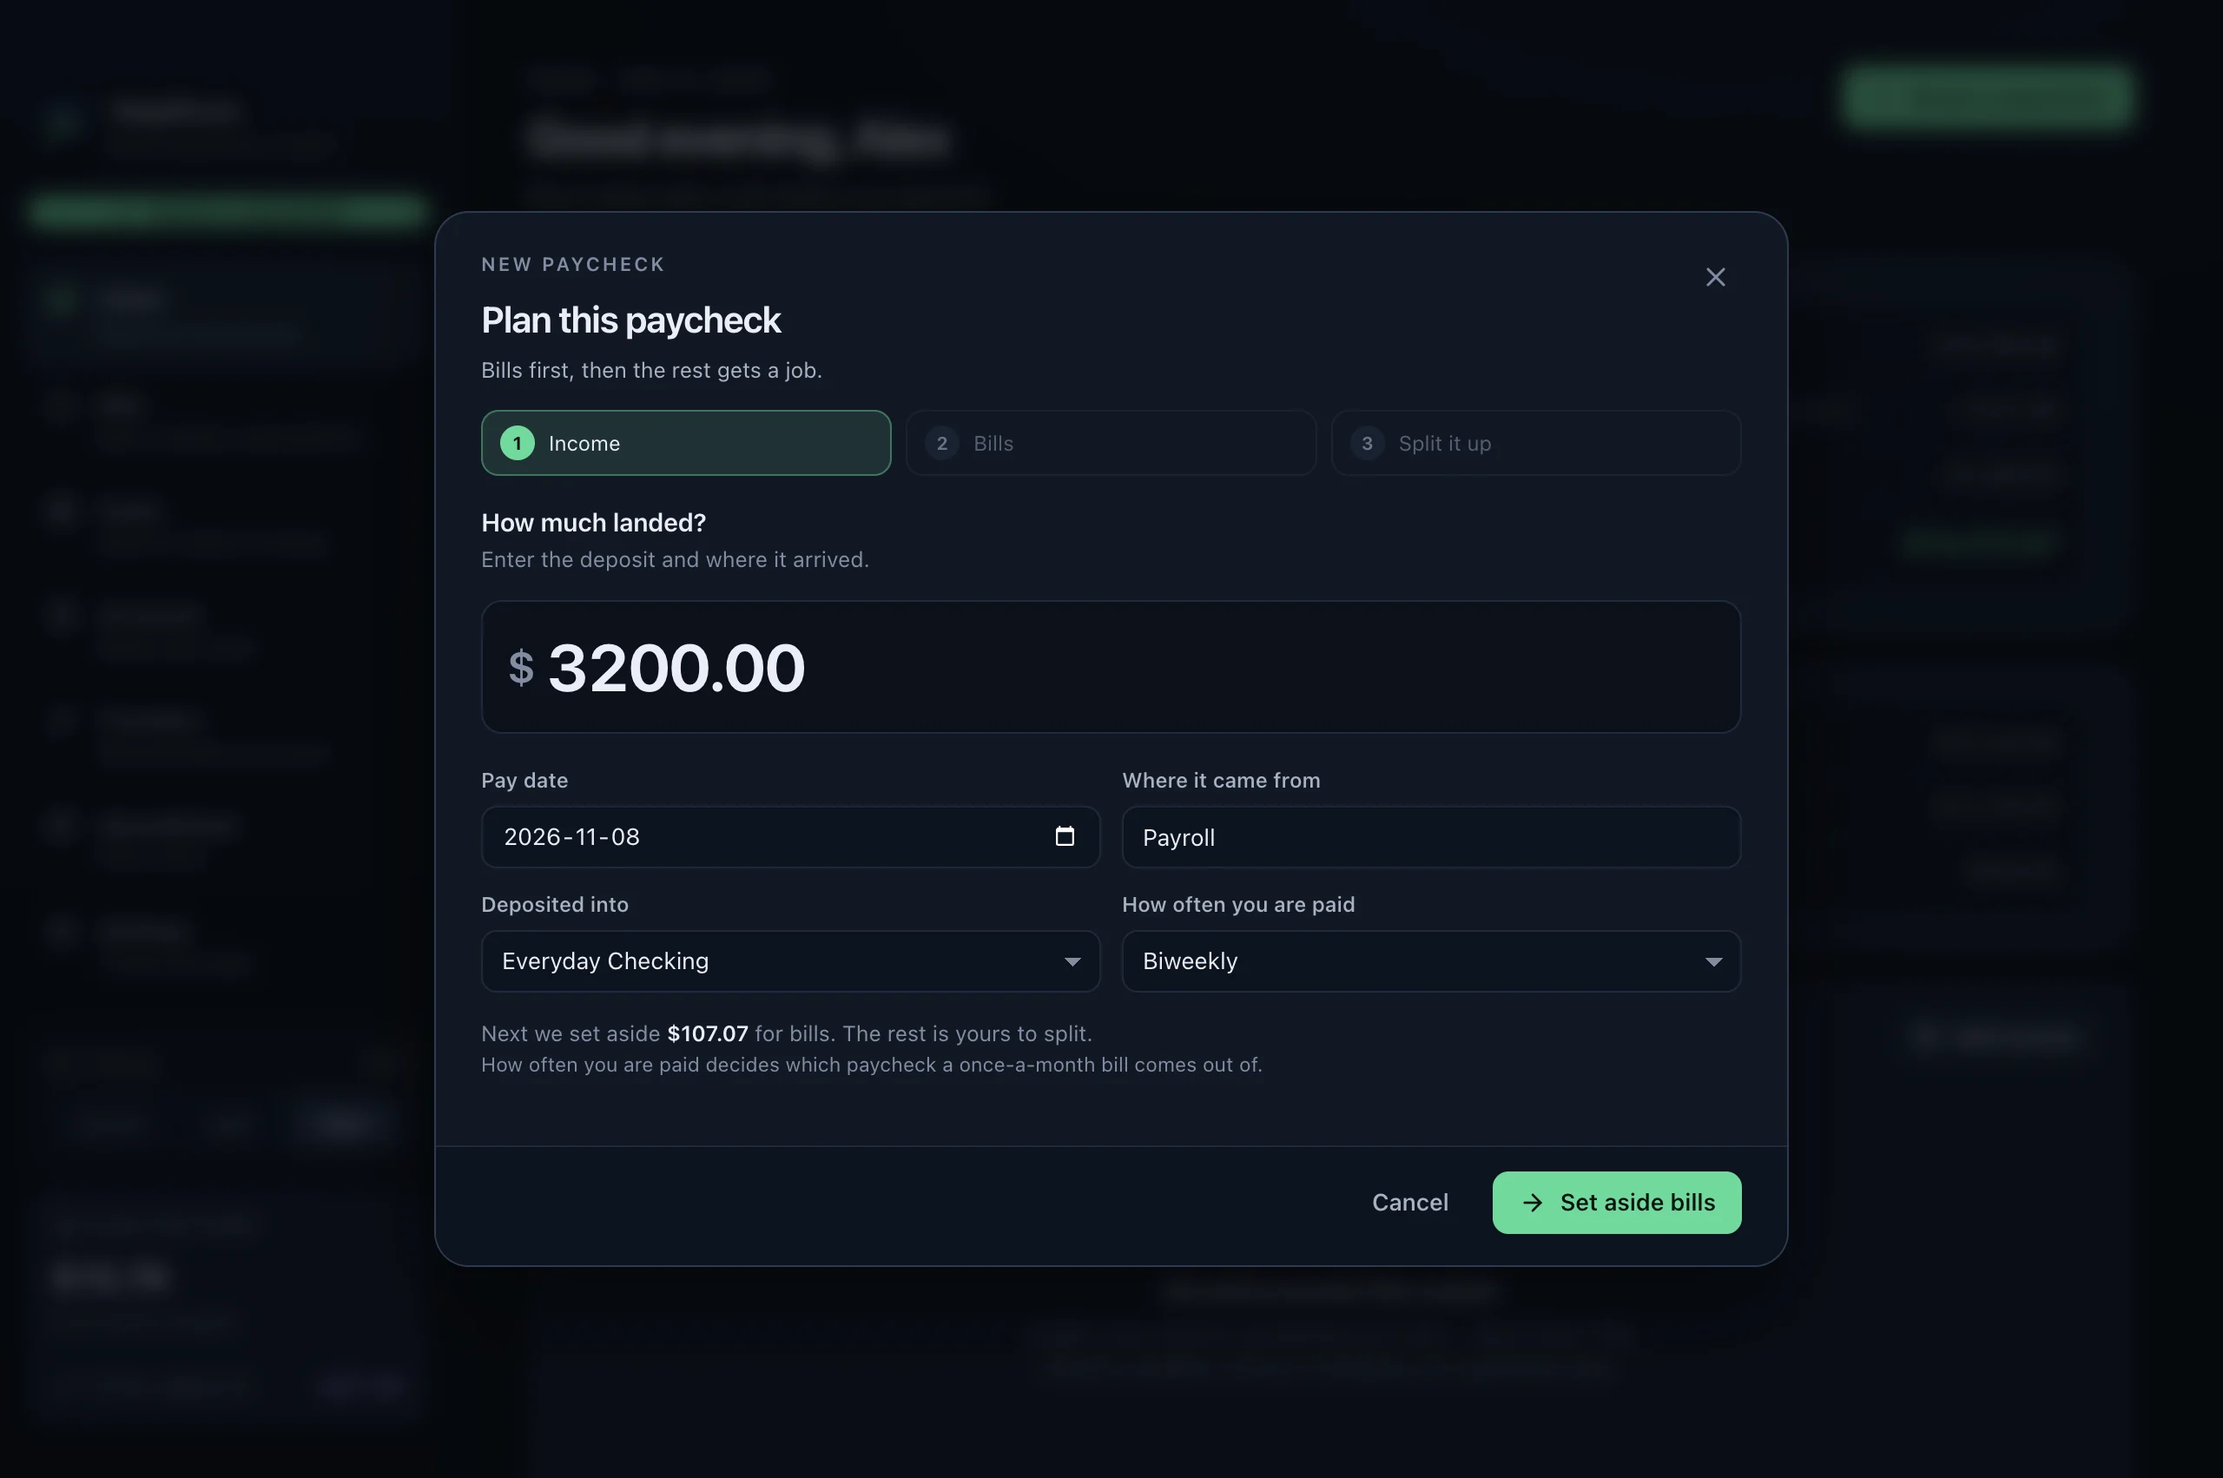
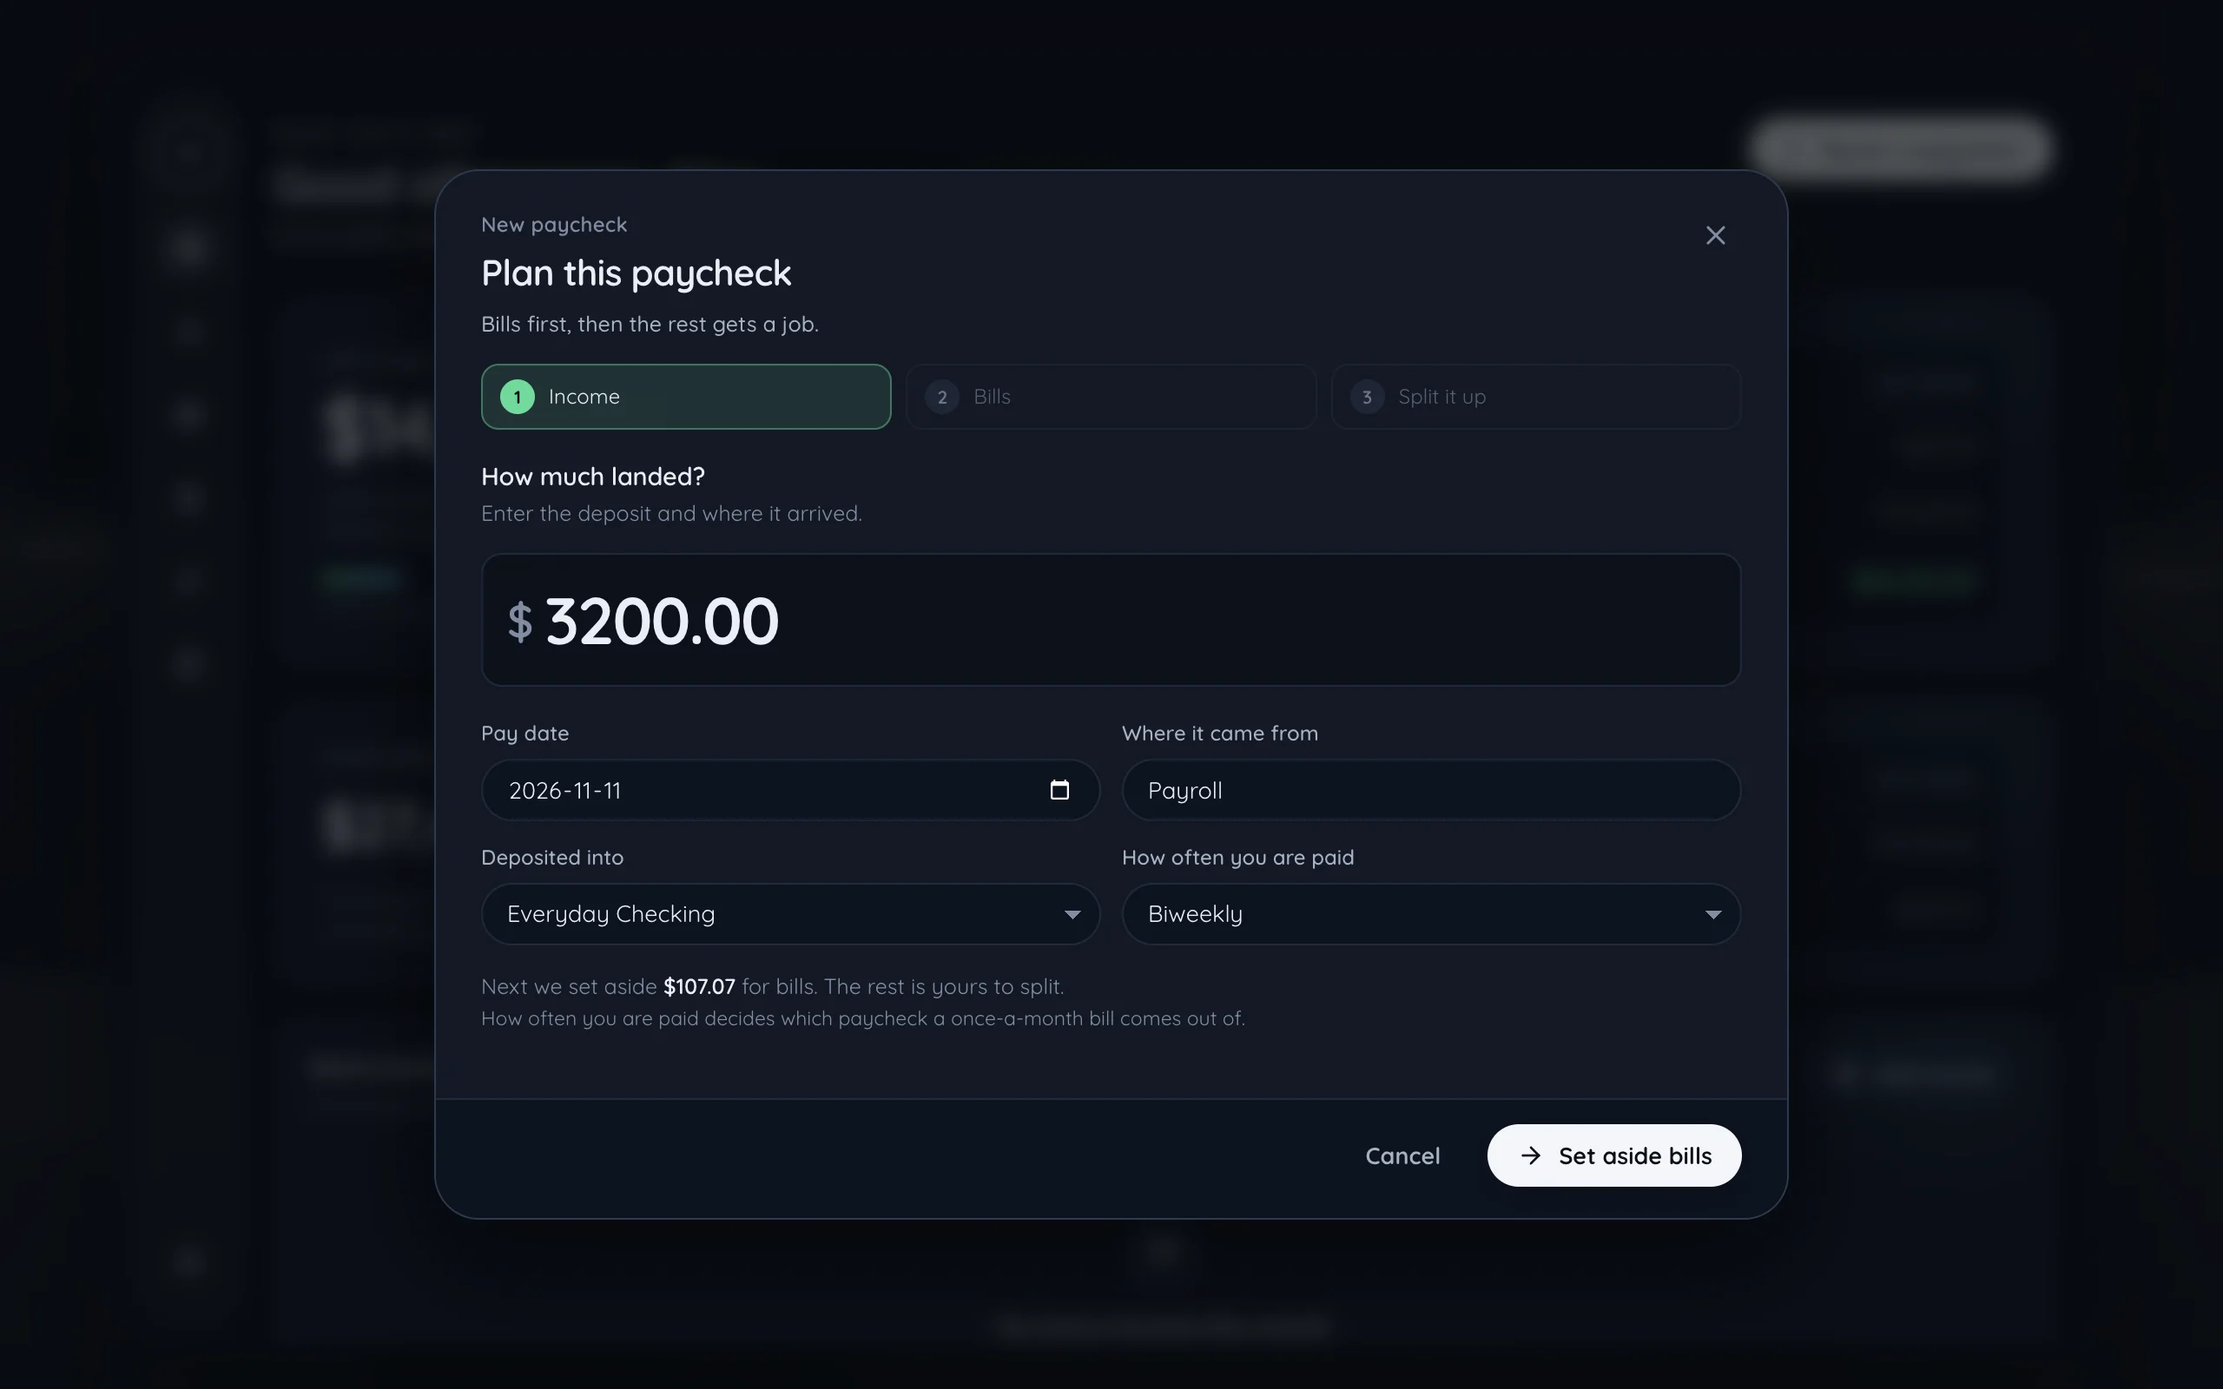
Retake the website screenshots in the new layout

diff --git a/index.html b/index.html
@@ -257,43 +257,43 @@
         <div class="shots">
           <figure class="shot">
             <span class="shot-frame">
-              <img class="shot-dark" src="assets/screenshots/home-dark.webp" width="2560" height="1702" alt="The Home screen: left to spend, the bills and goals already set aside, and total wealth across accounts." loading="lazy" decoding="async" />
-              <img class="shot-light" src="assets/screenshots/home-light.webp" width="2560" height="1702" alt="The Home screen: left to spend, the bills and goals already set aside, and total wealth across accounts." loading="lazy" decoding="async" />
+              <img class="shot-dark" src="assets/screenshots/home-dark.webp" width="2560" height="1600" alt="The Home screen: left to spend, the bills and goals already set aside, and total wealth across accounts." loading="lazy" decoding="async" />
+              <img class="shot-light" src="assets/screenshots/home-light.webp" width="2560" height="1600" alt="The Home screen: left to spend, the bills and goals already set aside, and total wealth across accounts." loading="lazy" decoding="async" />
             </span>
             <figcaption><strong>Home</strong> &mdash; what is left to spend once bills and goals are covered</figcaption>
           </figure>
           <figure class="shot">
             <span class="shot-frame">
-              <img class="shot-dark" src="assets/screenshots/route-paycheck-dark.webp" width="2560" height="1702" alt="The paycheck wizard with a $3,200.00 deposit entered, about to set aside money for bills." loading="lazy" decoding="async" />
-              <img class="shot-light" src="assets/screenshots/route-paycheck-light.webp" width="2560" height="1702" alt="The paycheck wizard with a $3,200.00 deposit entered, about to set aside money for bills." loading="lazy" decoding="async" />
+              <img class="shot-dark" src="assets/screenshots/route-paycheck-dark.webp" width="2560" height="1600" alt="The paycheck wizard with a $3,200.00 deposit entered, about to set aside money for bills." loading="lazy" decoding="async" />
+              <img class="shot-light" src="assets/screenshots/route-paycheck-light.webp" width="2560" height="1600" alt="The paycheck wizard with a $3,200.00 deposit entered, about to set aside money for bills." loading="lazy" decoding="async" />
             </span>
             <figcaption><strong>Route a paycheck</strong> &mdash; bills first, then the rest gets a job</figcaption>
           </figure>
           <figure class="shot">
             <span class="shot-frame">
-              <img class="shot-dark" src="assets/screenshots/bills-dark.webp" width="2560" height="1702" alt="The Bills screen listing rent, insurance, utilities and subscriptions with per-paycheck and monthly amounts." loading="lazy" decoding="async" />
-              <img class="shot-light" src="assets/screenshots/bills-light.webp" width="2560" height="1702" alt="The Bills screen listing rent, insurance, utilities and subscriptions with per-paycheck and monthly amounts." loading="lazy" decoding="async" />
+              <img class="shot-dark" src="assets/screenshots/bills-dark.webp" width="2560" height="1600" alt="The Bills screen listing rent, insurance, utilities and subscriptions with per-paycheck and monthly amounts." loading="lazy" decoding="async" />
+              <img class="shot-light" src="assets/screenshots/bills-light.webp" width="2560" height="1600" alt="The Bills screen listing rent, insurance, utilities and subscriptions with per-paycheck and monthly amounts." loading="lazy" decoding="async" />
             </span>
             <figcaption><strong>Bills</strong> &mdash; each bill smoothed into a per-paycheck amount</figcaption>
           </figure>
           <figure class="shot">
             <span class="shot-frame">
-              <img class="shot-dark" src="assets/screenshots/goals-dark.webp" width="2560" height="1702" alt="The Goals screen with an emergency fund target calculated from monthly essentials." loading="lazy" decoding="async" />
-              <img class="shot-light" src="assets/screenshots/goals-light.webp" width="2560" height="1702" alt="The Goals screen with an emergency fund target calculated from monthly essentials." loading="lazy" decoding="async" />
+              <img class="shot-dark" src="assets/screenshots/goals-dark.webp" width="2560" height="1600" alt="The Goals screen with an emergency fund target calculated from monthly essentials." loading="lazy" decoding="async" />
+              <img class="shot-light" src="assets/screenshots/goals-light.webp" width="2560" height="1600" alt="The Goals screen with an emergency fund target calculated from monthly essentials." loading="lazy" decoding="async" />
             </span>
             <figcaption><strong>Goals</strong> &mdash; an emergency fund worked out from your own numbers</figcaption>
           </figure>
           <figure class="shot">
             <span class="shot-frame">
-              <img class="shot-dark" src="assets/screenshots/accounts-dark.webp" width="2560" height="1702" alt="The Accounts screen grouping savings, checking, brokerage, cash and a credit card by bank." loading="lazy" decoding="async" />
-              <img class="shot-light" src="assets/screenshots/accounts-light.webp" width="2560" height="1702" alt="The Accounts screen grouping savings, checking, brokerage, cash and a credit card by bank." loading="lazy" decoding="async" />
+              <img class="shot-dark" src="assets/screenshots/accounts-dark.webp" width="2560" height="1600" alt="The Accounts screen grouping savings, checking, brokerage, cash and a credit card by bank." loading="lazy" decoding="async" />
+              <img class="shot-light" src="assets/screenshots/accounts-light.webp" width="2560" height="1600" alt="The Accounts screen grouping savings, checking, brokerage, cash and a credit card by bank." loading="lazy" decoding="async" />
             </span>
             <figcaption><strong>Accounts</strong> &mdash; banks, cards and what is left on each limit</figcaption>
           </figure>
           <figure class="shot">
             <span class="shot-frame">
-              <img class="shot-dark" src="assets/screenshots/spreadsheet-dark.webp" width="2560" height="1702" alt="The Spreadsheet screen showing ledger entries with filters and inline editing." loading="lazy" decoding="async" />
-              <img class="shot-light" src="assets/screenshots/spreadsheet-light.webp" width="2560" height="1702" alt="The Spreadsheet screen showing ledger entries with filters and inline editing." loading="lazy" decoding="async" />
+              <img class="shot-dark" src="assets/screenshots/spreadsheet-dark.webp" width="2560" height="1600" alt="The Spreadsheet screen showing ledger entries with filters and inline editing." loading="lazy" decoding="async" />
+              <img class="shot-light" src="assets/screenshots/spreadsheet-light.webp" width="2560" height="1600" alt="The Spreadsheet screen showing ledger entries with filters and inline editing." loading="lazy" decoding="async" />
             </span>
             <figcaption><strong>Spreadsheet</strong> &mdash; every entry, searchable and editable in place</figcaption>
           </figure>

diff --git a/README.md b/README.md
@@ -52,7 +52,7 @@ It is a planning and ledger tool, not a bank connection. There is no account lin
 | **Sinking funds** | Named goals with targets, optional deadlines and priorities. The allocator funds them in priority order, then by deadline, then by name. Fully funded goals stop taking money. Unused goal budget sweeps into savings. A goal can be given a dedicated account, whose balance *is* the progress; every other goal counts allocation lines. |
 | **Emergency fund** | A special sinking fund with an automatic target: monthly essentials × 3–6 months. Essentials are the Priority Wall plus, optionally, the average of recent variable expenses. A manual target mode is also available. |
 | **Accounts and credit** | Checking, savings, cash, investment and credit accounts, grouped by institution. Balances are derived from entries. Credit cards store debt as a negative balance and expose a utilization meter against their limit. Each account declares whether it counts as spendable, and can be marked as reserved for one goal. |
-| **Total wealth** | Everything owned on one strip: cash, money parked in dedicated goal accounts and investments, minus credit owed. Shown on the Home page, as an Accounts summary tile and in the sidebar. All three read the same shared function, so they cannot disagree. A daily snapshot history draws a net-worth sparkline on Home once a second day exists. |
+| **Total wealth** | Everything owned on one strip: cash, money parked in dedicated goal accounts and investments, minus credit owed. Shown on the Home page and as an Accounts summary tile. Both read the same shared function, so they cannot disagree. A daily snapshot history draws a net-worth sparkline on Home once a second day exists. |
 | **Card terms and payoff** | A credit card can carry its APR, minimum payment, statement close day, payment due day and last statement balance. The Accounts row then shows what is due on which date and how long the balance takes to clear at the minimum — or says plainly that the minimum never clears it. |
 | **Categories and spending** | Entries point at a real category row. The grid and the entry dialog complete existing names, renaming a category relabels its entries, and Home totals the month's spending by category. |
 | **Spreadsheet** | A server-queried ledger: search, date range, account, kind, category and sort filters, 100 rows a page, select-and-delete in bulk, and in-place editing of date, account, kind, category, description and amount. A second tab projects bills and goal deadlines over the next 90 days. |
@@ -64,7 +64,7 @@ It is a planning and ledger tool, not a bank connection. There is no account lin
 | **Encryption at rest (opt-in)** | Settings can rewrite the ledger as ciphertext — chacha20 through the SQLite cipher driver — and take it back to plaintext from the same screen. The key is held by whoever you choose: this computer's keychain, a passphrase, or both. *(Next release:)* an opt-in PIN of six or more digits, which warns that anyone with a copy of the file can try every PIN offline, and fingerprint or face unlock through a passkey where the system supports it (in practice Windows Hello; Mac Touch ID needs a signed build). A passkey is never allowed to be the only way in. Changing who holds the key re-wraps 32 bytes and touches no page, so custody is adjustable after the fact. Nothing is encrypted unless asked, and a forgotten passphrase or PIN has no reset, no escrow and no support path. |
 | **Pocket (phone)** | An optional installable web app that opens a backup and works as a peer of the desktop: it shows Safe to Spend, bills, goals, accounts and the ledger, and edits them offline through the desktop's own validation rules — including a card's owed balance and a card payment. It keeps a full copy of the tables in the browser, reuses the desktop's money functions, and merges with the desktop in both directions by exporting the tables it now holds. Its own copy can be sealed under a phrase of its own, and *(next release)* opened with a PIN or a fingerprint/face passkey as well. No server, account or upload. |
 | **Transfers** | One screen to move money between accounts: pick the two accounts and the amount, see both balances before and after, and save one paired transfer. |
-| **Appearance** | Dark, light or system theme. The resolved palette is cached locally to prevent a flash on launch. Motion is decoration: both devices obey the operating system's reduce-motion request, every control shows a keyboard focus ring, and the phone's browser bar follows the theme the page is actually painting. |
+| **Appearance** | Dark, Light, Glass or System theme, all drawn as one frosted pane with an icon rail over a softly lit backdrop; only the colours change. The resolved palette is cached locally to prevent a flash on launch. Motion is decoration: both devices obey the operating system's reduce-motion request, every control shows a keyboard focus ring, and the phone's browser bar follows the theme the page is actually painting. |
 
 ## Design rules
 

diff --git a/docs/UNRELEASED.md b/docs/UNRELEASED.md
@@ -586,7 +586,7 @@ Work merged to `main` after `v1.2.0`. None of it is in a **published** installer
 - The owner then asked Dark and Light to look like Glass, so the layout is no longer a Glass override: `components.css` draws it for every theme from tokens (`--scene-tint`, `--pane-*`, `--rail-*`, `--nav-active-bg`, `--tip-*`, `--card-highlight`, `--card-glow`, `--panel-hover`, `--popup-bg`, `--btn-primary-*`, `--positive`), and each palette in `tokens.css` sets its own. `glass.css` is gone. Quicksand and the 12/20/26/34px radii apply to all themes; Dark and Light panels became slightly translucent and return to solid under Reduce transparency.
 - The shell is one inset pane over `assets/glass-scene.svg` (a room drawn for WageRoute), washed by each theme's `--scene-tint`; on macOS the pane starts below the window buttons. The pane's blur sits on `.app-shell::before`, because a `backdrop-filter` on the shell would become the containing block of every fixed dialog and toast inside it. The sidebar becomes an icon rail (`Sidebar.tsx` drops the brand, theme picker, cash stat and version footer): the CTA is a round outlined plus, Settings sits at the foot, and each label shows as a pill on hover or keyboard focus while staying the button's accessible name. `scripts/screenshots.mjs` now switches themes in Settings. Cards are neutral glass with a soft blue corner light, stat tiles lift 3px on hover (tiles only, for the same containing-block reason), buttons and inputs are pills, the primary button is white on dark palettes and ink on Light, and screens enter block by block out of a 10px blur (`animation-fill-mode: backwards`, so nothing lingers). Motion is skipped under `prefers-reduced-motion`.
 - `app:info` reports `nativeTheme.prefersReducedTransparency`; the renderer sets `.reduce-transparency`, which swaps every theme to solid panels and drops every blur.
-- Checked in the built app on a throwaway profile against frames of the clip: Home, Bills, Goals, Accounts, Settings, the Add a bill dialog (its backdrop covers the full window) and the rail's hover label, then Dark and Light on the same screens. The landing-page screenshots in `assets/screenshots/` still show the old layout. Not checked: Windows and Linux compositors, and Reduce transparency switched on for real.
+- Checked in the built app on a throwaway profile against frames of the clip: Home, Bills, Goals, Accounts, Settings, the Add a bill dialog (its backdrop covers the full window) and the rail's hover label, then Dark and Light on the same screens. The landing-page screenshots in `assets/screenshots/` were retaken in the new layout with `npm run screenshots` (now 2560×1600, since the rail no longer makes the frame grow); `index.html` carries the new height. Not checked: Windows and Linux compositors, and Reduce transparency switched on for real.
 
 ### Before the next build
 
